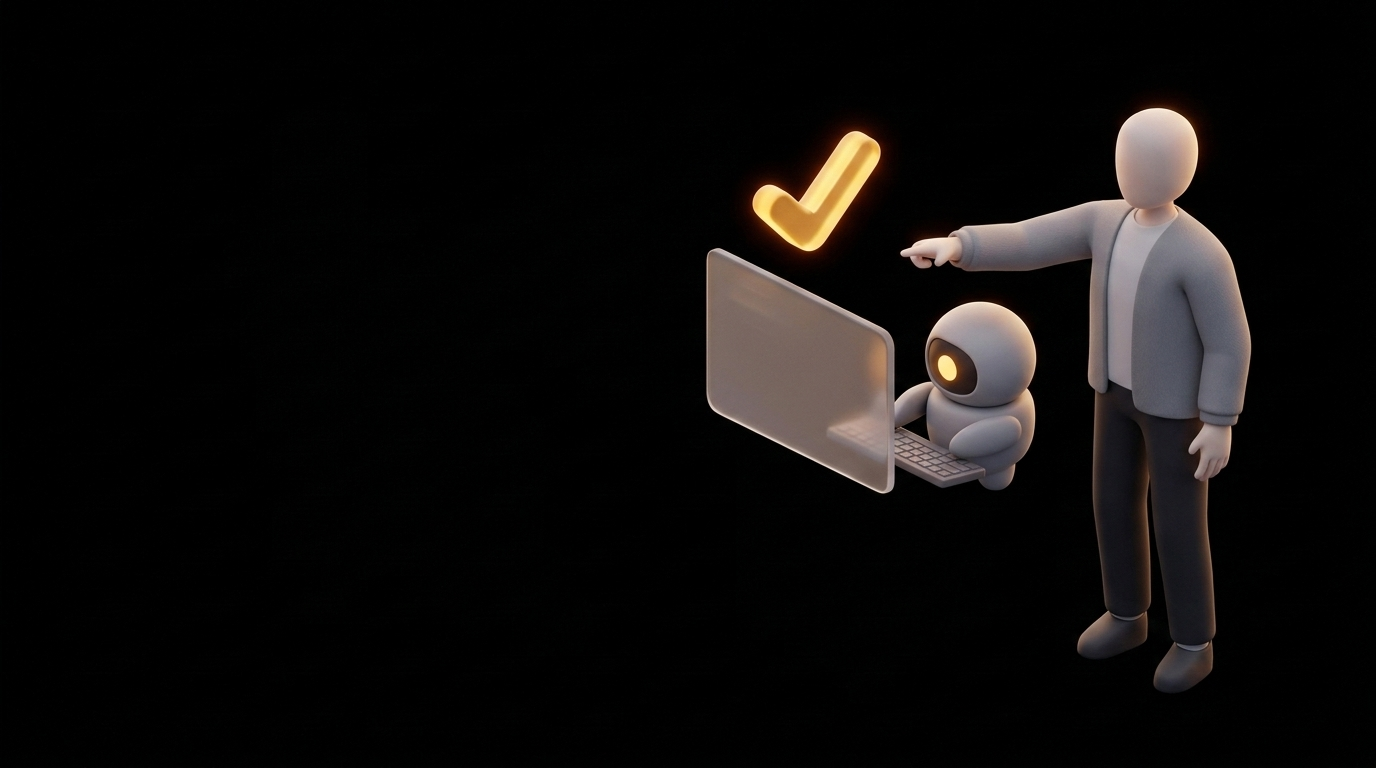
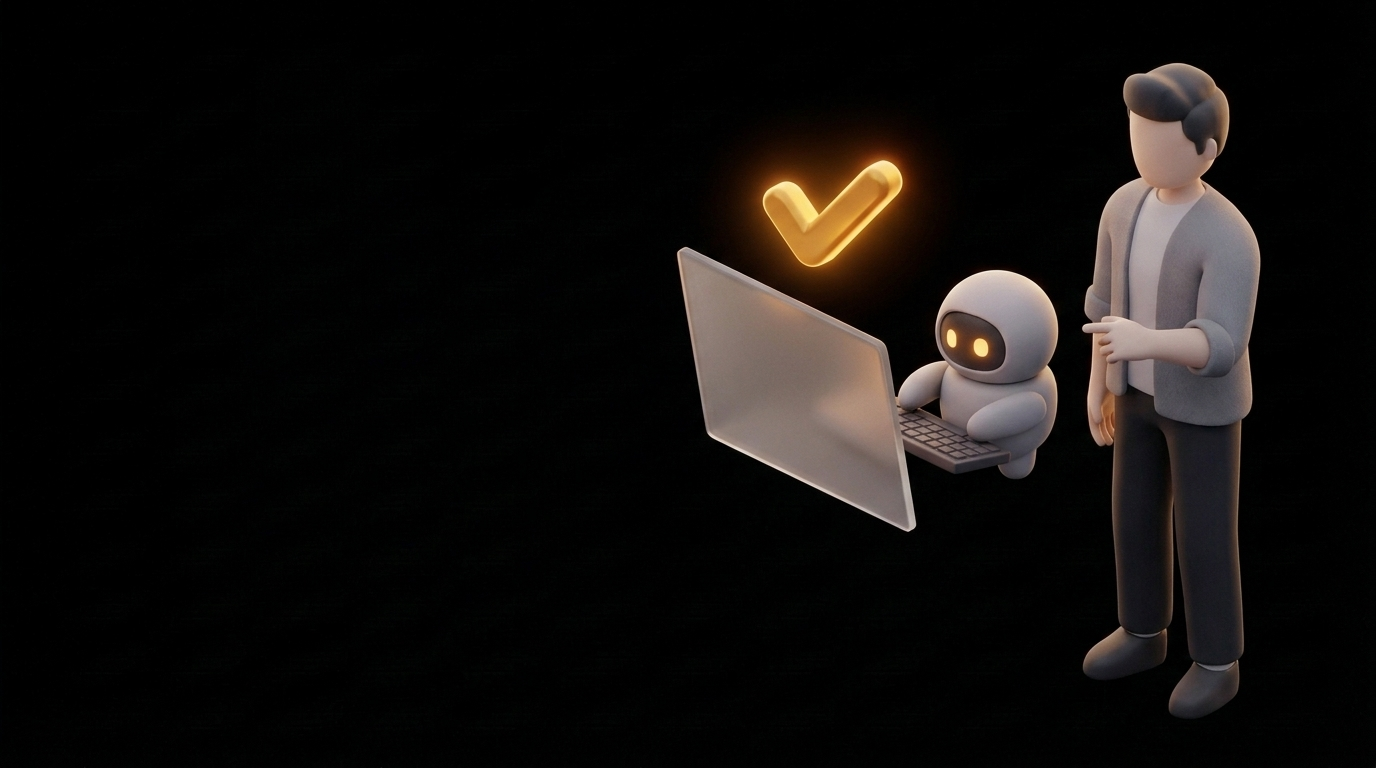
교데통에 좌우·위아래 분리와 비네트 적용, 위아래 분리 변형 추가
- slide-kit: sk--photo-bottom/top, 가운데 배경 비네트, shot--fade 를 사각형 비네트로
- 교데통: 01·07 그림 아래, 11·12 그림 오른쪽, 03 그림 왼쪽+카드 오른쪽 절반, 05·06 shot--fade, 09 가운데 유지
- 스킬·SLIDE_GUIDE: 위아래도 같은 원리, 두 방향 비교 후 선택

Changed region(s): [[0.4688, 0.0625, 0.9375, 0.9375]]

diff --git a/css/slide-kit.css b/css/slide-kit.css
@@ -481,6 +481,33 @@
 .sk--photo-left  .half { margin-left: auto; }
 .sk .half { width: 52%; flex: 1; min-height: 0; display: flex; flex-direction: column; justify-content: center; gap: var(--sp-4); }
 
+/* 위아래로 나누기 — 같은 원리, 방향만 세로
+   sk--photo-bottom : 그림 아래 · 글씨 위   (소재가 아래쪽에 몰린 그림)
+   sk--photo-top    : 그림 위   · 글씨 아래 */
+.sk--photo-bottom .sk-bg { height: var(--photo-h, 100%); top: auto; }
+.sk--photo-top    .sk-bg { height: var(--photo-h, 100%); bottom: auto; }
+.sk--photo-bottom .sk-bg {
+    -webkit-mask-image: linear-gradient(to top, rgba(0,0,0,.35) 0%, #000 12%, #000 50%, transparent 100%),
+                        linear-gradient(to right, transparent 0%, #000 12%, #000 88%, transparent 100%);
+            mask-image: linear-gradient(to top, rgba(0,0,0,.35) 0%, #000 12%, #000 50%, transparent 100%),
+                        linear-gradient(to right, transparent 0%, #000 12%, #000 88%, transparent 100%);
+    -webkit-mask-composite: source-in; mask-composite: intersect;
+}
+.sk--photo-top .sk-bg {
+    -webkit-mask-image: linear-gradient(to bottom, rgba(0,0,0,.35) 0%, #000 12%, #000 50%, transparent 100%),
+                        linear-gradient(to right, transparent 0%, #000 12%, #000 88%, transparent 100%);
+            mask-image: linear-gradient(to bottom, rgba(0,0,0,.35) 0%, #000 12%, #000 50%, transparent 100%),
+                        linear-gradient(to right, transparent 0%, #000 12%, #000 88%, transparent 100%);
+    -webkit-mask-composite: source-in; mask-composite: intersect;
+}
+.sk.sk--photo-bottom, .sk.sk--photo-top { --photo-dim: .8; }
+.sk.sk--photo-bottom::after { background: linear-gradient(to bottom, rgba(0,0,0,.82) 35%, transparent 65%); }
+.sk.sk--photo-top::after    { background: linear-gradient(to top,    rgba(0,0,0,.82) 35%, transparent 65%); }
+.sk-cover.sk--photo-bottom { justify-content: flex-start; padding-top: 72px; }
+.sk-cover.sk--photo-top    { justify-content: flex-end;   padding-bottom: 72px; }
+.sk-cover.sk--photo-bottom .sk-cover__title,
+.sk-cover.sk--photo-top .sk-cover__title { font-size: 52px; }
+
 /* 표지 글씨 블록을 반대쪽으로 */
 .sk-cover.sk--photo-left  { align-items: flex-start; text-align: left; padding-left: 50%; padding-right: var(--slide-px); }
 .sk-cover.sk--photo-right { align-items: flex-start; text-align: left; padding-right: 46%; }
@@ -599,11 +626,20 @@
 
 /* 화면 캡처처럼 잘리면 안 되는 그림 */
 .sk .shot--contain { object-fit: contain; background: var(--bg-code); }
+/* 가운데 배치(좌우 분리 아님) 배경도 가장자리를 흐리게 */
+.sk--photo:not(.sk--photo-left):not(.sk--photo-right) .sk-bg {
+    -webkit-mask-image: radial-gradient(ellipse 75% 75% at 50% 50%, #000 55%, transparent 100%);
+            mask-image: radial-gradient(ellipse 75% 75% at 50% 50%, #000 55%, transparent 100%);
+}
 /* 칸 안 그림의 테두리를 없애고 가장자리를 검정 배경에 녹임 (비네트) */
 .sk .shot--fade {
     border: none; border-radius: 0;
-    -webkit-mask-image: radial-gradient(ellipse 50% 50% at 50% 50%, #000 55%, transparent 100%);
-            mask-image: radial-gradient(ellipse 50% 50% at 50% 50%, #000 55%, transparent 100%);
+    /* 사방 가장자리만 부드럽게 — 원형으로 하면 동그란 창문처럼 잘려 보임 */
+    -webkit-mask-image: linear-gradient(to right, transparent 0%, #000 14%, #000 86%, transparent 100%),
+                        linear-gradient(to bottom, transparent 0%, #000 14%, #000 86%, transparent 100%);
+            mask-image: linear-gradient(to right, transparent 0%, #000 14%, #000 86%, transparent 100%),
+                        linear-gradient(to bottom, transparent 0%, #000 14%, #000 86%, transparent 100%);
+    -webkit-mask-composite: source-in; mask-composite: intersect;
 }
 
 /* 코드 타일(components.css)을 열 안에서 남는 높이만큼 */

diff --git a/slides/교데통_사용자교육/03.html b/slides/교데통_사용자교육/03.html
@@ -1,17 +1,17 @@
-<div class="sk sk--photo tone-amber">
+<div class="sk sk--photo sk--photo-left tone-amber" style="--photo-w: 70%;">
 
   <img class="sk-bg" src="img/교데통/03_worry.png" alt="">
 
-  <div class="center" style="font-size:40px; font-weight:900; color:#fff; line-height:1.4;">
-    "기존 시스템도 잘 돌아가는데,<br>
-    <span class="hl">왜 굳이 바꿔서 적응하게 만드나?"</span>
-  </div>
+  <div class="half">
 
-  <p class="center" style="margin:0; font-size:var(--fs-body); color:#d4d4d4;">
-    그런 생각, 한 번쯤은 다 해 보셨을 겁니다.
-  </p>
+    <div style="font-size:34px; font-weight:900; color:#fff; line-height:1.4;">
+      "기존 시스템도 잘 돌아가는데,<br>
+      <span class="hl">왜 굳이 바꿔서 적응하게 만드나?"</span>
+    </div>
 
-  <div class="cols">
+    <p style="font-size:var(--fs-body); color:#d4d4d4;">
+      그런 생각, 한 번쯤은 다 해 보셨을 겁니다.
+    </p>
 
     <div class="card card--row tone-sky">
       <div class="card__icon"><i class="fa-solid fa-comments"></i></div>

diff --git a/slides/교데통_사용자교육/06.html b/slides/교데통_사용자교육/06.html
@@ -14,7 +14,7 @@
   <div class="cols">
 
     <div class="col">
-      <img class="shot" src="img/교데통/06_search.png" alt="서류함 미로 앞에서 돋보기를 든 사람">
+      <img class="shot shot--fade" src="img/교데통/06_search.png" alt="서류함 미로 앞에서 돋보기를 든 사람">
     </div>
 
     <div class="col" style="gap:var(--sp-3); --fs-lead:25px; --fs-sm:19px;">

diff --git a/index.html b/index.html
@@ -13,7 +13,7 @@
     <link rel="stylesheet" href="css/base.css?v=6">
     <link rel="stylesheet" href="css/components.css?v=5">
     <!-- 디자인 시스템: 새 슬라이드는 이 클래스들만 조합하면 됩니다 -->
-    <link rel="stylesheet" href="css/slide-kit.css?v=18">
+    <link rel="stylesheet" href="css/slide-kit.css?v=21">
 </head>
 <body>
 

diff --git a/slides/교데통_사용자교육/05.html b/slides/교데통_사용자교육/05.html
@@ -10,7 +10,7 @@
   <div class="cols cols--right">
 
     <div class="col">
-      <img class="shot" src="img/교데통/05_islands.png" alt="서로 끊어진 세 개의 섬">
+      <img class="shot shot--fade" src="img/교데통/05_islands.png" alt="서로 끊어진 세 개의 섬">
     </div>
 
     <div class="col">

diff --git a/slides/교데통_사용자교육/11.html b/slides/교데통_사용자교육/11.html
@@ -1,4 +1,4 @@
-<div class="sk sk-cover sk--photo tone-amber">
+<div class="sk sk-cover sk--photo sk--photo-right tone-amber" style="--photo-w: 74%;">
 
   <img class="sk-bg" src="img/교데통/11_road.png" alt="">
 

diff --git a/slides/교데통_사용자교육/12.html b/slides/교데통_사용자교육/12.html
@@ -1,4 +1,4 @@
-<div class="sk sk-cover sk--photo tone-amber">
+<div class="sk sk-cover sk--photo sk--photo-right tone-amber" style="--photo-w: 74%;">
 
   <img class="sk-bg" src="img/교데통/12_demo.png" alt="">
 

diff --git a/slides/교데통_사용자교육/01.html b/slides/교데통_사용자교육/01.html
@@ -1,4 +1,4 @@
-<div class="sk sk-cover sk--photo tone-amber">
+<div class="sk sk-cover sk--photo sk--photo-bottom tone-amber">
 
   <img class="sk-bg" src="img/교데통/01_cover.png" alt="">
 

diff --git a/slides/교데통_사용자교육/07.html b/slides/교데통_사용자교육/07.html
@@ -1,4 +1,4 @@
-<div class="sk sk-cover sk--photo tone-amber">
+<div class="sk sk-cover sk--photo sk--photo-bottom tone-amber">
 
   <img class="sk-bg" src="img/교데통/07_hub.png" alt="">
 

diff --git a/SLIDE_GUIDE.md b/SLIDE_GUIDE.md
@@ -83,7 +83,7 @@ npx serve
 | 그림 옆에 쌓는 납작한 카드 | `card--row` |
 | 열 하나를 채우는 그림 | `<img class="shot">` |
 | 흐린 그림 배경 | 루트에 `sk--photo` + 첫 줄에 `<img class="sk-bg">` |
-| 그림·글씨 초점 나누기 | `sk--photo` 에 더해 `sk--photo-left`(그림 주인공) / `sk--photo-right`(글씨 주인공) |
+| 그림·글씨 초점 나누기 | `sk--photo` 에 더해 `sk--photo-left` / `-right` / `-bottom` / `-top` |
 | 제목 아래 도입 문단 | `<p class="lead">` |
 | 열 안의 소제목 (카드 밖) | `s-h3` |
 | 카드 제목 위 작은 라벨 / 맨 아래 한 줄 | `card__kicker` / `card__end` (구분선) |
@@ -141,6 +141,9 @@ npx serve
 |---|---|---|
 | 그림 | `sk--photo-left` | 그림 왼쪽(먼저 보임) · 글씨 오른쪽 |
 | 글씨 | `sk--photo-right` | 글씨 왼쪽 · 그림 오른쪽(보조) |
+| 소재가 아래(위)에 넓게 퍼진 그림 | `sk--photo-bottom` / `sk--photo-top` | 그림 아래 · 글씨 위 (또는 반대) |
+
+좌우든 위아래든 원리는 같습니다 — **초점을 나누고, 어둡게 하는 건 글씨 쪽만.** 이미 있는 그림은 두 방향을 다 보고 소재가 덜 가려지는 쪽을 고릅니다.
 
 ```html
 <div class="sk sk-cover sk--photo sk--photo-left tone-amber">
@@ -156,7 +159,8 @@ npx serve
 
 딱 끊긴 테두리는 단절감을 줍니다. 가운데는 밝게, 끝으로 갈수록 어둡게 검정 배경에 녹입니다.
 - 좌우 분리 배경(`sk--photo-left/right`)은 이미 위아래·바깥쪽까지 비네트가 들어가 있습니다.
-- 칸 안의 그림은 `<img class="shot shot--fade">` — 테두리 없이 타원으로 녹아듭니다. 덱 전체를 바꾸려면 `[data-deck="..."] .sk--photo { --photo-dim: .3; }`
+- 칸 안의 그림은 `<img class="shot shot--fade">` — 테두리 없이 사방 가장자리가 녹아듭니다.
+- 가운데 배치 배경도 가장자리가 흐려집니다. 덱 전체를 바꾸려면 `[data-deck="..."] .sk--photo { --photo-dim: .3; }`
 
 ### 그림 만들기 (안티그래비티 + 나노바나나)
 
